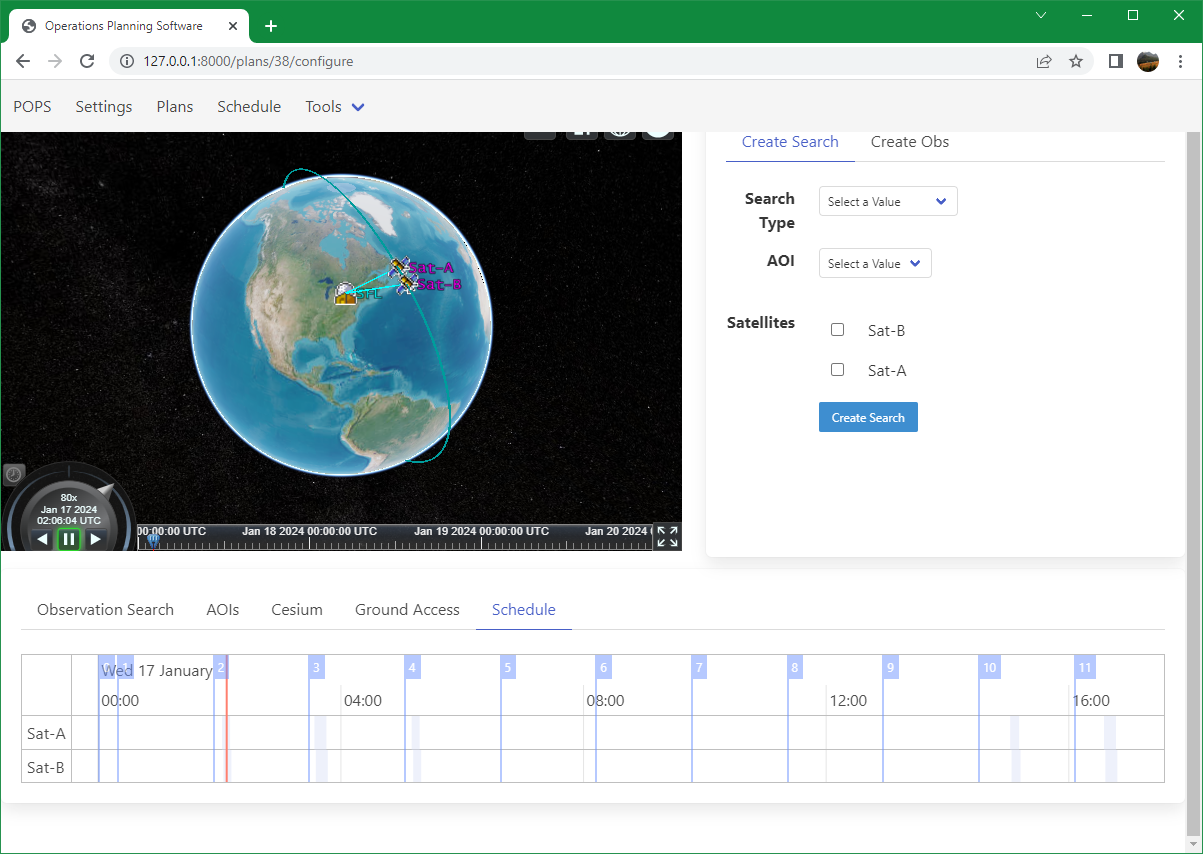
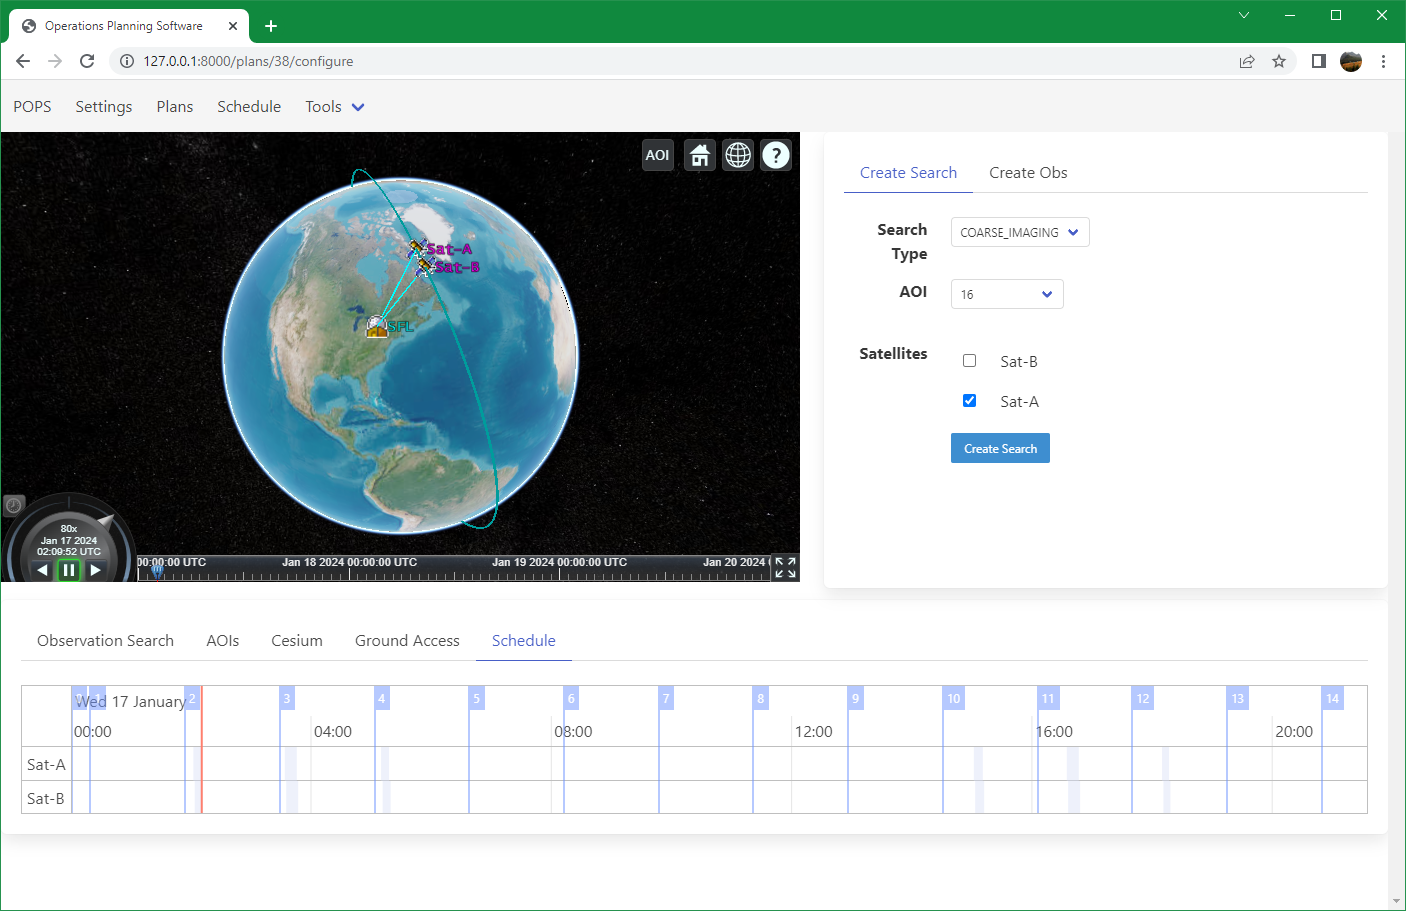
Wednesday progress

diff --git a/Chapters/4_Software_Workflow.tex b/Chapters/4_Software_Workflow.tex
@@ -151,7 +151,7 @@ times for each ground station are also calculated for each satellite and that
 data is stored as well.
 
 
-\subsection{Observation Configuration}
+\subsection{Observation Configuration Webpage}
 
 \begin{figure}[h]
     \centering
@@ -210,13 +210,10 @@ out to add or make changes to the plan. Currently, that consists of forms to
 create search scenarios or to add observations to the plan. The bottom tabs are
 meant to display information to the user or allow them to interact with the
 Cesium viewer. Currently visible, in the bottom is the schedule timeline.
-Here, events are displayed to the user in an interactable viewer.
+Here, events are displayed to the user in an interactable viewer. Before going
+through how the page is used, the different aspects of the page will be touched
+on briefly. 
 
-To create a search, a user must specify the search type, the \gls{aoi} the
-search should be conducted on, and the  satellites that should be considered.
-When the \texttt{Create Search} button in clicked, \gls{pops} will send the
-data to the Opportunity Filter and a search will be performed. The observation
-creation tab is under developed and only contains a placeholder form currently.
 
 \begin{figure}
     \centering
@@ -265,23 +262,41 @@ are of interest to an operator.
 \end{figure}
 
 Every \gls{aoi} that is stored in \gls{pops} can be seen in the \texttt{AOI}
-tab. \gls{aois} May be added either through a text file that is read and loaded
-into \gls{pops}. Alternatively, \glspl{aoi} can be draw directly in the Cesium
-viewer with the \texttt{aoi} button in the Cesium viewer. When it is clicked,
-the controls for the viewer change. Every time a user clicks on the Earth, a
-polygon vertex is placed at that location. As vertexes are added a white
-polygon becomes visible. If a mistake is made, the user can undo vertices by
-pressing \texttt{CTRL-Z}. To give the user more information, some instructions
-are included in a text box as well as the Latitude and Longitude of the cursor.
-Once the user is satisfied, they can right click and the area-target \gls{aoi}
-is saved to the database and can be referenced by search scenarios. A Partially
-completed \gls{aoi} can be seen in Figure~\ref{fig:obs-conf-draw}.
+tab. \glspl{aoi} May be added either through a text file that is read and
+loaded into \gls{pops}. Alternatively, \glspl{aoi} can be drawn directly in the
+Cesium viewer with the \texttt{aoi} button in the Cesium viewer. When it is
+clicked, the controls for the viewer change. Every time a user clicks on the
+Earth, a polygon vertex is placed at that location. As vertexes are added a
+white polygon becomes visible. If a mistake is made, the user can undo vertices
+by pressing \texttt{CTRL-Z}. To give the user more information, some
+instructions are included in a text box as well as the Latitude and Longitude
+of the cursor.  Once the user is satisfied, they can right click and the
+area-target \gls{aoi} is saved to the database and can be referenced by search
+scenarios. A Partially completed \gls{aoi} can be seen in
+Figure~\ref{fig:obs-conf-draw}. 
 
 \begin{figure}[h]
     \centering
     \includegraphics[width=0.8\textwidth]{obs-conf-draw.png} 
     \caption{Drawing an AOI}
     \label{fig:obs-conf-draw} 
+\end{figure}
+
+Since there may be many \glspl{aoi} stored in \gls{pops}, a user can display
+\glspl{aoi} in the Cesium viewer from the \texttt{AOI} tab. This can be seen in
+Figure~\ref{fig:obs-conf-aoi-display}. These `displayed' \glspl{aoi} have red
+outlines and purple areas. This is to distinguis them from \glspl{aoi} that are
+displayed as part of a search scenario. A useful feature of Cesium is also
+viewable in the Figure. When an entity in Cesium is selected, an information
+box appears giving the name of the entity as well as its description. Here, the
+\gls{aoi} has no description, but it from the name, we can tell its: an
+\gls{aoi}, its ID is \texttt{16}, and it is a display \gls{aoi}.
+
+\begin{figure}[h]
+    \centering
+    \includegraphics[width=0.8\textwidth]{obs-conf-aoi-disp.png} 
+    \caption{Displaying an AOI}
+    \label{fig:obs-conf-aoi-display} 
 \end{figure}
 
 The last two tabs serve minor purposes. The \texttt{Cesium} tab lists all of
@@ -292,6 +307,217 @@ from a number of opportunities. Alternatively, they may wish to compare swaths
 from different passes. This tab gives the user the granular ability to make
 those changes. The \texttt{Ground Access} tab shows a filter-able list of
 ground station accesses, with time links that change Cesium's current time.
+
+\subsection{Creating Searches}
+
+Let us now create two search scenarios, one for the Coarse Imaging Operations
+mode and one for the Tip-and-Cue Imaging Mode. To do this we will use the
+\texttt{Create Search} tab. In this form, we must specify the search type, the
+\gls{aoi} the search should be conducted on, and the  satellites that should be
+considered. The search type may just be selected from the dropdown. If a user
+is unsure about what ID their desired \gls{aoi} is given, they can go to the
+\texttt{AOI} tab, where they may look at the list of \glspl{aoi} and display
+them on Cesium for their reference. Earlier in the chapter, an \gls{aoi} was
+specified by the imaginary customer in Table~\ref{tab:norway-aoi}. A text file
+for this \gls{aoi} definition was written and then uploaded to \gls{pops}. The
+ID that was generated was \texttt{16}. This \gls{aoi} can actually be seen
+displayed earlier in Figure~\ref{fig:obs-conf-aoi-display}.
+
+\begin{figure}[h]
+    \centering
+    \begin{subfigure}[b]{0.49\textwidth}
+	\centering
+	\includegraphics[width=0.60\textwidth]{obs-conf-search-1.PNG} 
+	\caption{Coarse Imaging Settings}
+	\label{fig:obs-conf-search-1} 
+    \end{subfigure}
+    \hfill
+    \begin{subfigure}[b]{0.49\textwidth}
+	\centering
+	\includegraphics[width=0.60\textwidth]{obs-conf-search-2.PNG} 
+	\caption{Tip-and-Cue Imaging Settings}
+	\label{fig:obs-conf-search-2} 
+    \end{subfigure}
+    \caption{Search Scenario Form Parameters}
+    \label{fig:obs-conf-searches} 
+\end{figure}
+
+
+For Coarse Imagine the search mode is, of course, \texttt{COARSE\_IMAGING}.
+The satellites of relevance for this mode is just Sat-A, because Sat-B is not
+equipped with a Coarse Imager. In the future, only relevant satellites will be
+selecatable but, for now, it is left configurable.  The search form for this
+mode can be seen in Figure~\ref{fig:obs-conf-search-1}. Similarly, for
+Tip-and-Cue imaging, the mode is \texttt{TNC\_IMAGING} the relevant satellites
+are Sat-A and Sat-B.  The mode's settings can be seen in
+Figure~\ref{fig:obs-conf-search-2}. Once the \texttt{Create Search} button is
+clicked, \gls{pops} will send the data to the Opportunity Filter and a search
+will be performed. The two searche can be seen in the \texttt{Observation
+Search} tab in Figure~\ref{fig:obs-conf-search}. In the Figure, note that: the
+swaths are displayed with green outlines and feint green areas, The \gls{aoi}
+has a red outline and a black area, and the intersection polygons have magenta
+areas. The Coarse Imaging search mode can be seen in
+Figure~\ref{fig:obs-conf-opps}. In total, there are 43 opportunities for this
+mode in a 72 hour period. The reason there are so many is that there are not
+many constraints for this kind of observation. All it really is is a single
+access time to an area target. 
+
+\begin{figure}[h]
+    \centering
+    \includegraphics[width=0.8\textwidth]{obs-conf-tnc-all.png} 
+    \caption{Tip-and-Cue Imaging All opportunities}
+    \label{fig:obs-conf-tnc-all} 
+\end{figure}
+
+In contrast, all the opportunities for Tip-and-Cue Imaging mode can be seen in
+Figure~\ref{fig:obs-conf-tnc-all}. This view is a bit cluttered but there are
+not many opportunities, so individual screenshots have been taken for each
+opportunity in Figure~\ref{fig:obs-conf-tnc-opps}. The way each opportunity is
+displayed is with two swaths.  The tip swath is the larger one. It comes from
+Sat-A during the first pass. The cue swath is the thinner swath withing the
+tip-swath. This come from Sat-B during the next pass. Note here, the
+intersection polygon is the intersection between the tip swath, cue swath, and
+\gls{aoi}. For all these opportunities, the tip swath totally encompasses the
+cue swath but this is not always the case. In total, there are 5 opportunities
+in a 72 hour period. This is far less than there are Course Imaging
+opportunities. This is even less than there are generatl Tip-and-Cue
+opportunities. That is, where the cue swath intersects the tip swath and
+\gls{aoi}. The reason there are so few opportunities, is because of the ground
+station constraint. There must be a ground station contact between the first
+pass and next pass. If the satellites are moving from right to left in all of
+the views, notice that the tip swaths are all `pointed' at the \gls{sfl} which
+is the only ground station. \gls{sfl} is far aways from the \gls{aoi} so
+opportunities are limited. 
+
+
+\begin{figure}[h]
+    \centering
+    \begin{subfigure}[b]{0.3\textwidth}
+	\centering
+	\includegraphics[width=\textwidth]{obs-conf-tnc-1.PNG} 
+	\caption{Opportunity 1}
+	\label{fig:obs-conf-tnc-1} 
+    \end{subfigure}
+    \hfill
+    \begin{subfigure}[b]{0.3\textwidth}
+	\centering
+	\includegraphics[width=\textwidth]{obs-conf-tnc-2.PNG} 
+	\caption{Opportunity 2}
+	\label{fig:obs-conf-tnc-2} 
+    \end{subfigure}
+    \hfill
+    \begin{subfigure}[b]{0.3\textwidth}
+	\centering
+	\includegraphics[width=\textwidth]{obs-conf-tnc-3.PNG} 
+	\caption{Opportunity 3}
+	\label{fig:obs-conf-tnc-3} 
+    \end{subfigure}
+    
+    \begin{subfigure}[b]{0.3\textwidth}
+	\centering
+	\includegraphics[width=\textwidth]{obs-conf-tnc-4.PNG} 
+	\caption{Opportunity 4}
+	\label{fig:obs-conf-tnc-4} 
+    \end{subfigure}
+    \quad \quad
+    \begin{subfigure}[b]{0.3\textwidth}
+	\centering
+	\includegraphics[width=\textwidth]{obs-conf-tnc-5.PNG} 
+	\caption{Opportunity 5}
+	\label{fig:obs-conf-tnc-5} 
+    \end{subfigure}
+
+    \caption{Individual Tip-and-Cue Opportunities}
+\label{fig:obs-conf-tnc-opps}
+\end{figure}
+
+\begin{table}[h] 
+    \centering
+    \caption{Plan Summary}
+    \begin{tabular}{cc}
+	Plan & Stations \\ \hline
+	1   &	SFL \\
+	2   &	SFL, GSW \\
+	3   &	SFL, ESCS 
+    \end{tabular}
+    \label{tab:additional-plans}
+\end{table}
+
+As an example, let us create two more plans with different additional ground
+stations, to compare the number of opportunities we can observe. Each plan is
+set up identically, the only difference being the ground stations added. If the
+plan we have been working with so far is Plan 1, let us create two more plans,
+Plan 2 and Plan 3, which have additional ground stations added.  Plan 2 has the
+\gls{sfl} and the Weilheim ground station (GSW), near Munich, in Germany. Plan
+3 has the \gls{sfl} and the Esrange Space Center Station (ESCS) in Sweden. This
+is summarized in Table~\ref{tab:additional-plansl}. The parameters for both
+these ground stations can be seen in Table~\ref{tab:additional-gs}. The
+placements of each ground station with respect to \gls{sfl} and the \gls{aoi}
+can be seen in Figure~\ref{fig:obs-conf-gs-placements}. Of course, these are
+just example ground stations that have been picked just for this scenario.
+Whether they support commercial missions or if they are equipped to support
+EG-SAT, is not relevant.  It should be assumed that they can. 
+
+\begin{table}[h] 
+    \centering
+    \caption{Additional Ground Stations}
+    \begin{tabular}{ccccc}
+	Station & Latitude [$^\circ$] & Longitude [$^\circ$] & Altitude [m] & Elev. Mask [$^\circ$] \\ \hline
+	\multicolumn{1}{l|}{GSW}  & 47.88   & 11.08   & 610.0  & 6      \\
+	\multicolumn{1}{l|}{ESCS} & 67.88   & 21.05   & 440.6  & 10      \\
+    \end{tabular}
+    \label{tab:additional-gs}
+\end{table}
+
+\begin{figure}[h]
+    \centering
+    \begin{subfigure}[b]{0.49\textwidth}
+	\centering
+	\includegraphics[width=\textwidth]{obs-conf-plan-2.PNG} 
+	\caption{Weilheim Station and SFL}
+	\label{fig:obs-conf-gs-placements-1} 
+    \end{subfigure}
+    \hfill
+    \begin{subfigure}[b]{0.49\textwidth}
+	\centering
+	\includegraphics[width=\textwidth]{obs-conf-plan-3.PNG} 
+	\caption{Esrange Station and SFL}
+	\label{fig:obs-conf-gs-placements-2}
+    \end{subfigure}
+    \caption{Additional Ground Stations}
+    \label{fig:obs-conf-gs-placements} 
+\end{figure}
+
+Before running the search, we can make some quick hypotheses.
+
+\begin{figure}[h]
+    \centering
+    \begin{subfigure}[b]{0.3\textwidth}
+	\centering
+	\includegraphics[width=\textwidth]{obs-conf-opps-2.PNG} 
+	\caption{Plan 1}
+	\label{fig:obs-conf-opps-1} 
+    \end{subfigure}
+    \hfill
+    \begin{subfigure}[b]{0.3\textwidth}
+	\centering
+	\includegraphics[width=\textwidth]{obs-conf-opps-1.PNG} 
+	\caption{Plan 2}
+	\label{fig:obs-conf-opps-2} 
+    \end{subfigure}
+    \hfill
+    \begin{subfigure}[b]{0.3\textwidth}
+	\centering
+	\includegraphics[width=\textwidth]{obs-conf-opps-3.PNG} 
+	\caption{Plan 3}
+	\label{fig:obs-conf-opps-3} 
+    \end{subfigure}
+
+    \caption{Different Plan Opportunities}
+    \label{fig:obs-conf-opps}
+\end{figure}
+
+
 
 \subsection{Scheduling}
 

diff --git a/ThesisV1.tex b/ThesisV1.tex
@@ -55,7 +55,7 @@
 \include{Chapters/2_Operations_Overview}
 \include{Chapters/3_Software_Architecture}     
 \include{Chapters/4_Software_Workflow}
-%\include{Chapters/5_Vibration_Testing}         
+\include{Chapters/5_Vibration_Testing}         
 \include{Chapters/6_Conclusions}           
 \include{Chapters/7_Appendix}           
 
